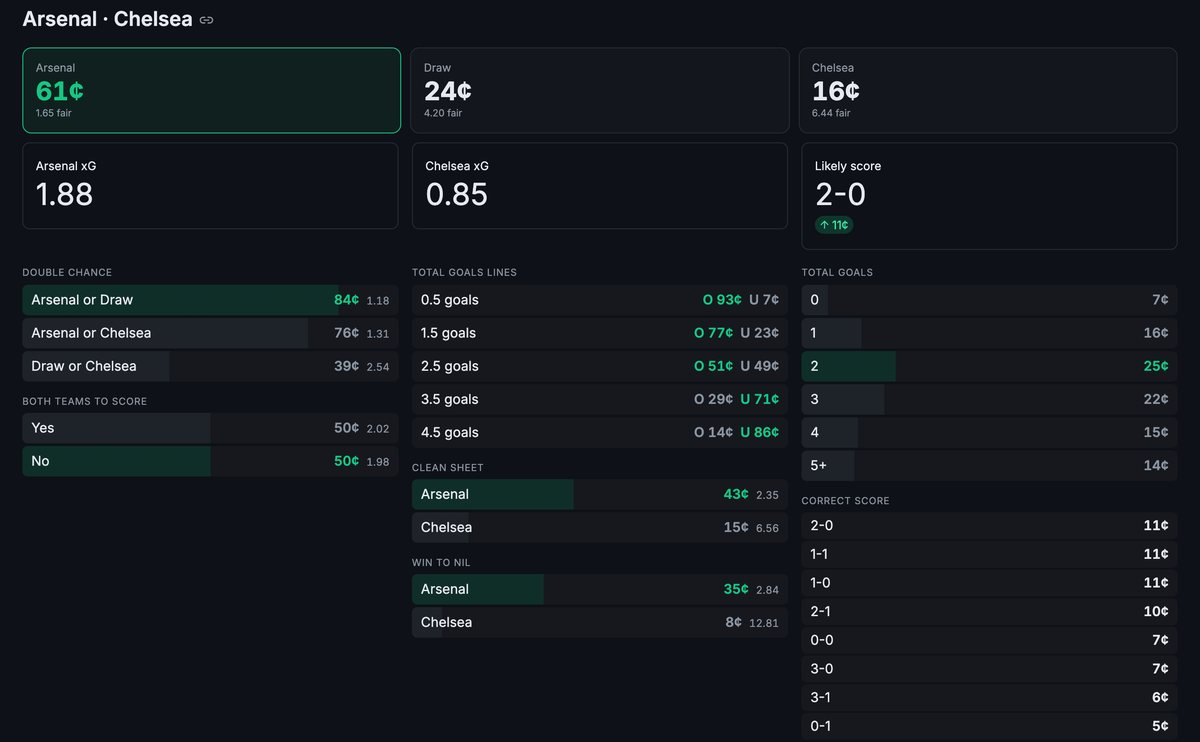
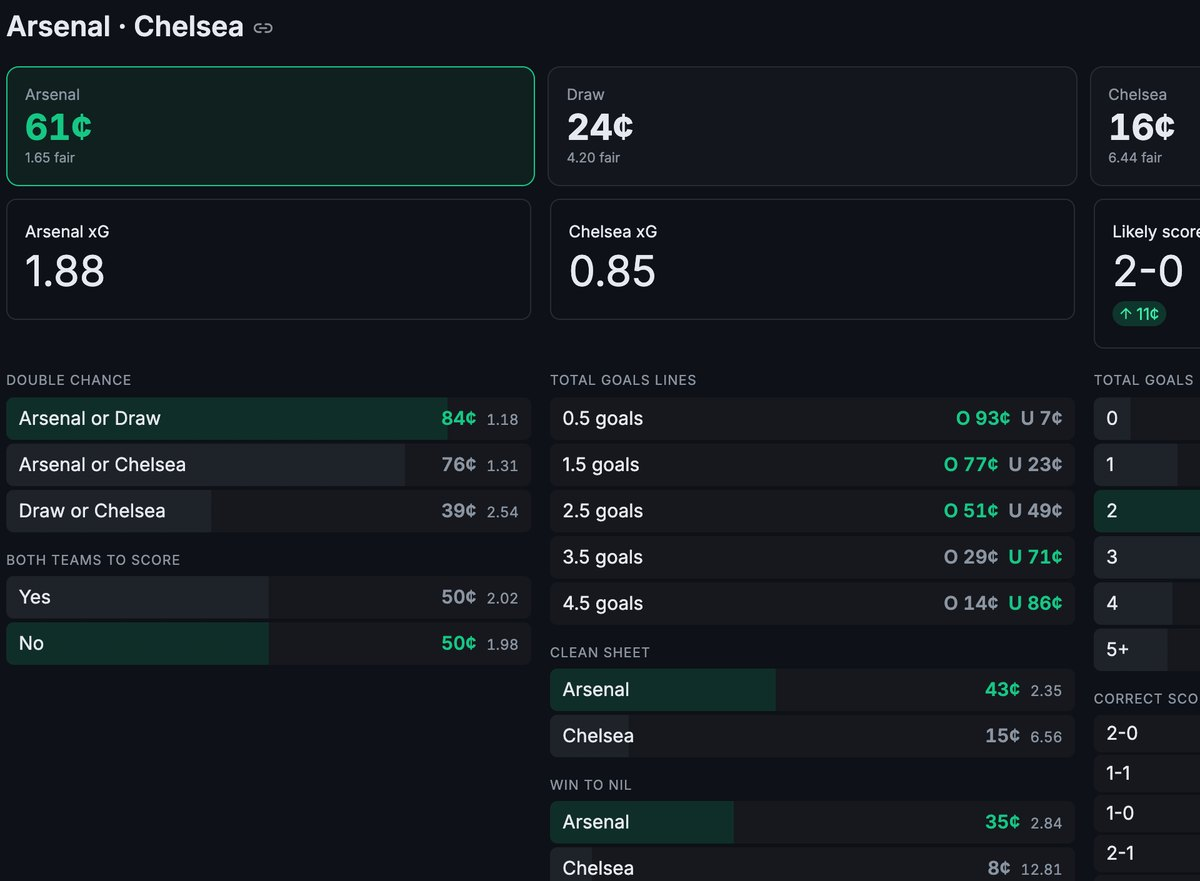
Crop the Soccer Analytics card art so the odds are readable
Zoom the art to the left of the matchup dashboard so the heading, all
three prices, both xG figures, and the likely score fill the frame.

diff --git a/index.html b/index.html
@@ -251,11 +251,11 @@
                                 </article>
                             </li>
                             <li class="slot">
-                                <article class="card is-foil" data-tone="sage" style="--art-bg:#0e1117; --art-fit:contain; --art-pos:center top; --art-pad:0;">
+                                <article class="card is-foil" data-tone="sage" style="--art-bg:#0e1117; --art-fit:cover; --art-pos:left top;">
                                     <div class="card-inner">
                                         <div class="face face-front">
                                             <header class="c-head"><h3>Soccer Analytics</h3><span class="c-no">08/19</span></header>
-                                            <figure class="c-art"><img src="images/SoccerAnalytics.jpg" alt="Match forecast for Arsenal v Chelsea showing win, draw and loss probabilities, expected goals for each team, and a most-likely score of 2&ndash;0" loading="lazy" decoding="async"></figure>
+                                            <figure class="c-art"><img src="images/SoccerAnalytics.jpg?v=2" alt="Match forecast for Arsenal v Chelsea showing win, draw and loss probabilities, expected goals for each team, and a most-likely score of 2&ndash;0" loading="lazy" decoding="async"></figure>
                                             <p class="c-type">Sports Analytics &middot; Python</p>
                                             <p class="c-text">Football forecasts on free data, graded honestly against the market.</p>
                                             <footer class="c-foot"><span>Side project &middot; 610 tests, CI</span><span class="c-mark">&#10022; Foil</span></footer>
